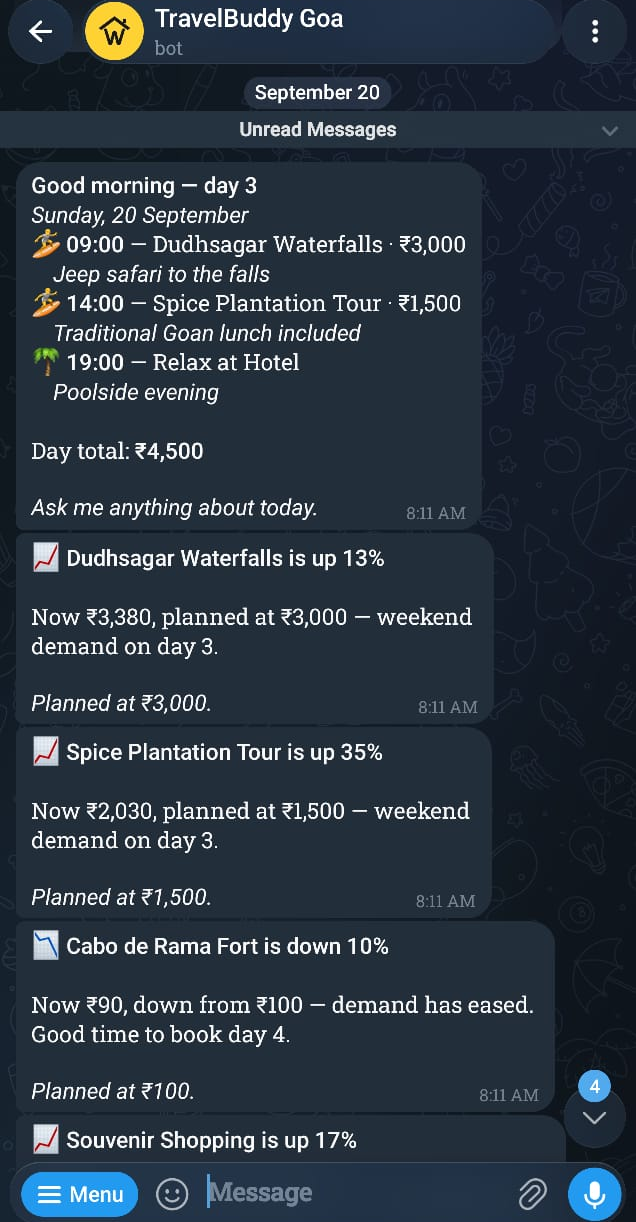
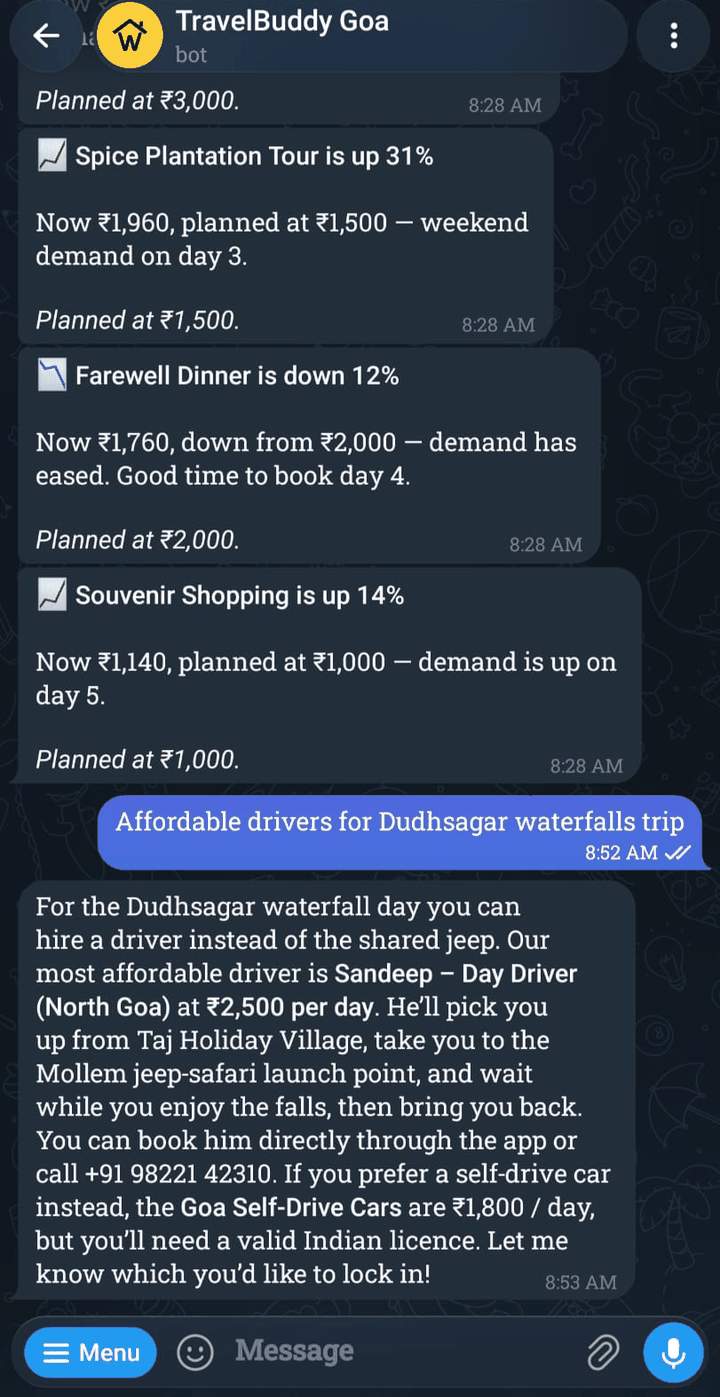
Swap in the Telegram shot that shows a bookable answer
The old capture was briefing and price alerts only. This one includes
"affordable drivers for Dudhsagar" answered with Sandeep at Rs 2,500 a day
and a number to call — which is the claim the surrounding paragraph makes,
and evidence the partner brief reaches the model.

Quantised to a 256-colour palette: the source was a JPEG, and a truecolour
PNG of it was 982KB for a flat UI. 386KB, no visible difference.

Also states why the bot is on Telegram and not WhatsApp — the WhatsApp
Business Platform needs a verified Meta Business account and template
approval before proactive messages, and Notifier already abstracts the
channel so WhatsApp is a second adapter, not a rewrite.

diff --git a/README.md b/README.md
@@ -112,7 +112,7 @@ toggle on each stop shows the unit economics per booking.
 
 <tr>
 <td width="50%" align="center">
-<img src="docs/images/telegram.png" alt="Telegram bot conversation" width="250" />
+<img src="docs/images/telegram.png" alt="Telegram chat: live price alerts, then a driver recommendation naming a partner, a rate and a number" width="250" />
 </td>
 <td width="50%" valign="top">
 
@@ -124,6 +124,9 @@ questions about your own itinerary, and knows the full partner network — so
 "where should we eat tonight?" gets an answer you can actually book.
 
 Share the link and your travel companions get the same bot, same plan.
+
+In the shot beside this: live price alerts, then "affordable drivers for
+Dudhsagar" answered with a named partner, a day rate and a number to call.
 
 </td>
 </tr>
@@ -160,6 +163,24 @@ the app to bind it to your trip.
 Ask it "is Dudhsagar worth it on day 3?" or "cheap dinner near Anjuna" and it
 answers from your itinerary and the partner network — not from generic
 internet knowledge about Goa.
+
+### Why Telegram, when India runs on WhatsApp
+
+WhatsApp is where these travellers already are, and it is where this is
+going. It is not where it starts, because the WhatsApp Business Platform
+requires a verified Meta Business account and a reviewed WhatsApp Business
+Account before a bot may message anyone — days of verification, with
+business documents, and template approval for anything proactive. A trip
+nudge is exactly the kind of proactive message that needs it.
+
+Telegram needed a token from BotFather and no verification at all, so the
+concierge is real today rather than pending review.
+
+The channel is already an implementation detail: `Notifier` in
+`src/lib/telegram.ts` is an interface, and the assistant, the schedule and
+the price watcher never name a platform. WhatsApp lands as a second adapter
+behind the same interface once verification clears — no change to how any
+of this works.
 
 ---
 

diff --git a/docs/images/README.md b/docs/images/README.md
@@ -14,7 +14,7 @@ them except `dark-mode.png`, which needs both.
 | `swipe.png`     | The swipe deck mid-card, with a Goa photo showing.                                                                                      |
 | `itinerary.png` | A generated day with several timed, costed stops visible.                                                                               |
 | `booking.png`   | A stop expanded to show vendor rows, with **Partner economics** toggled on so the commission split is visible.                          |
-| `telegram.png`  | A real chat with [@wayzyy_goa_bot](https://t.me/wayzyy_goa_bot): `/today`, then a free-text question and its answer.                    |
+| `telegram.png`  | ✅ in — live price alerts, then a question answered with a named partner, a rate and a number. Replace only with a shot that still shows a real bot answer.       |
 | `dark-mode.png` | The same screen in light and dark, side by side.                                                                                        |
 
 Keep each one under ~500 KB so the page stays fast.
